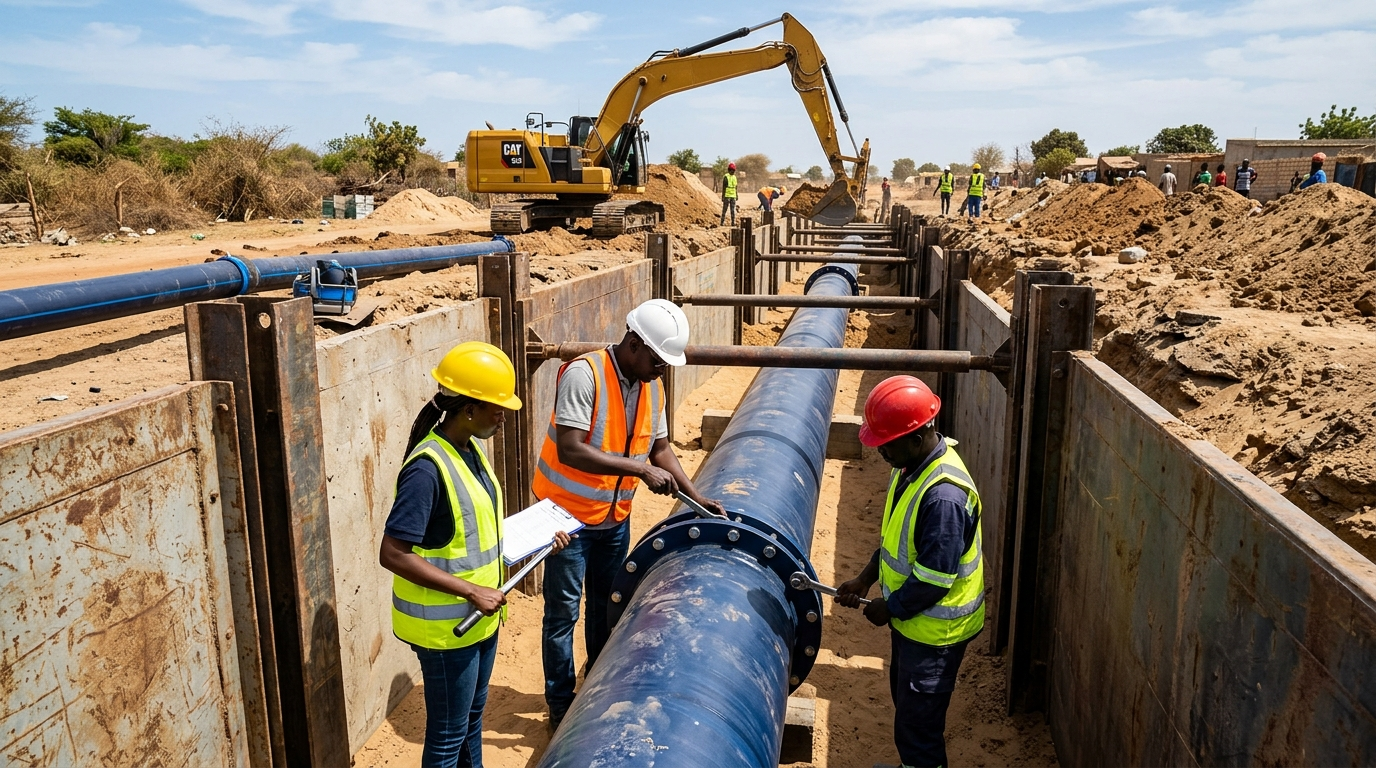
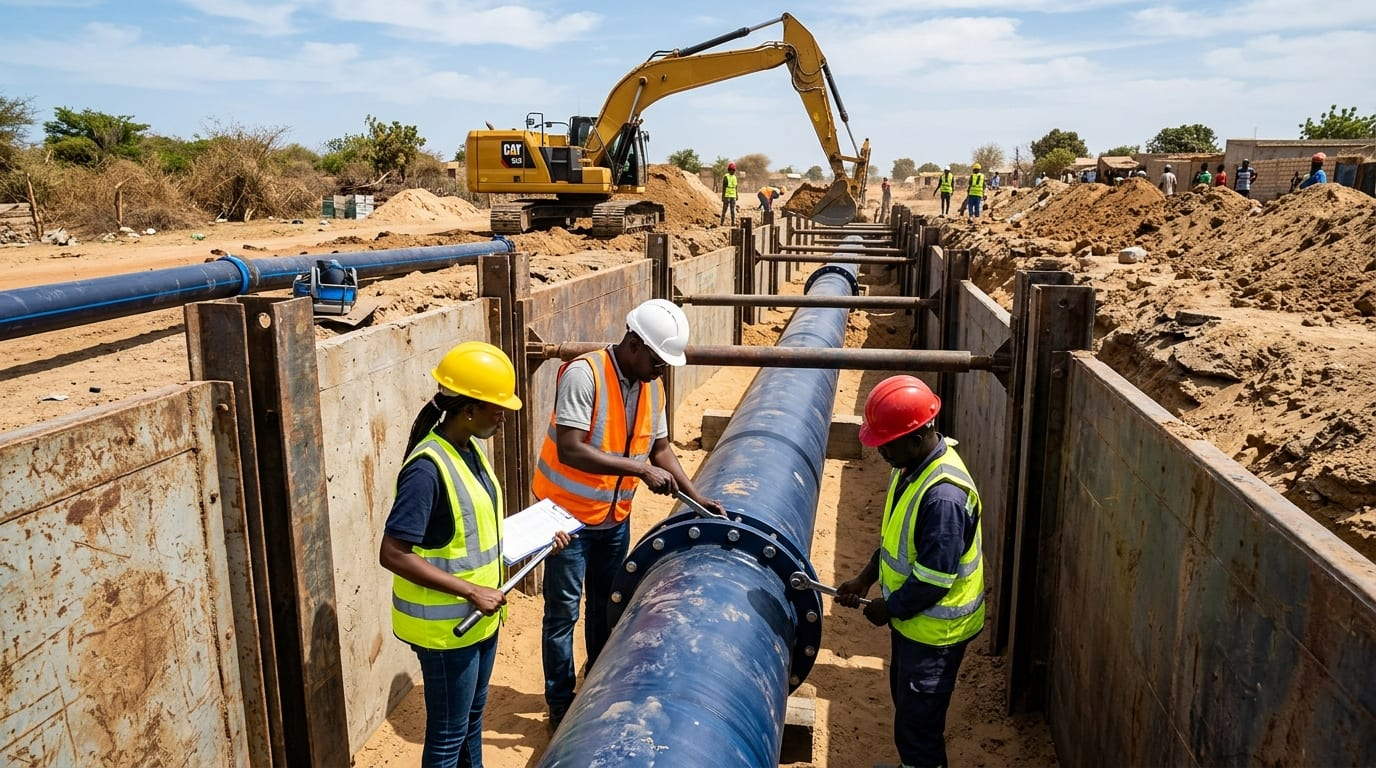
perf(images): compression progressive des images chantiers (-79% poids), support AVIF et lazy loading strict du hero

diff --git a/components/accueil/Diaporama.tsx b/components/accueil/Diaporama.tsx
@@ -30,7 +30,7 @@ export function Diaporama({ diapos }: { diapos: Diapo[] }) {
   const [reduit, setReduit] = useState(false);
   const [suspendu, setSuspendu] = useState(false);
   const [horsEcran, setHorsEcran] = useState(false);
-  const [chargees, setChargees] = useState<Set<number>>(() => new Set([0, 1]));
+  const [chargees, setChargees] = useState<Set<number>>(() => new Set([0]));
   const cadre = useRef<HTMLDivElement>(null);
 
   const enLecture = lecture ?? !reduit;
@@ -58,18 +58,17 @@ export function Diaporama({ diapos }: { diapos: Diapo[] }) {
     return () => window.clearTimeout(minuteur);
   }, [index, enPause, aller]);
 
-  // Précharge toutes les photos du hero dès que la page est prête pour un passage fluide sans attente
+  // Précharge uniquement la photo courante et la photo suivante (préserve la bande passante mobile)
   useEffect(() => {
-    const prechargerToutes = () => {
-      setChargees(new Set(diapos.map((_, i) => i)));
-    };
-    if (typeof window.requestIdleCallback === "function") {
-      const id = window.requestIdleCallback(prechargerToutes, { timeout: 1500 });
-      return () => window.cancelIdleCallback(id);
-    }
-    const t = setTimeout(prechargerToutes, 800);
-    return () => clearTimeout(t);
-  }, [diapos]);
+    setChargees((prev) => {
+      const suivante = (index + 1) % total;
+      if (prev.has(index) && prev.has(suivante)) return prev;
+      const maj = new Set(prev);
+      maj.add(index);
+      maj.add(suivante);
+      return maj;
+    });
+  }, [index, total]);
 
   useEffect(() => {
     // display: contents n'a pas de boîte : on observe la section du hero
@@ -110,8 +109,8 @@ export function Diaporama({ diapos }: { diapos: Diapo[] }) {
                   fill
                   priority={i === 0}
                   fetchPriority={i === 0 ? "high" : "low"}
-                  sizes="100vw"
-                  quality={75}
+                  sizes="(max-width: 640px) 100vw, (max-width: 1024px) 100vw, 1920px"
+                  quality={70}
                   placeholder="blur"
                   className="object-cover"
                   style={{ objectPosition: p.focale }}

diff --git a/next.config.ts b/next.config.ts
@@ -32,7 +32,7 @@ const securite = [
 // Fichiers statiques non versionnés (logo, motifs, photos) : 30 jours, puis
 // revalidation en arrière-plan. Pas « immutable » : le logo vectoriel et les
 // photos HD remplaceront ces fichiers sous le même nom.
-const cacheStatique = [{ key: "Cache-Control", value: "public, max-age=2592000, stale-while-revalidate=31536000" }];
+const cacheStatique = [{ key: "Cache-Control", value: "public, max-age=3600, stale-while-revalidate=86400" }];
 
 const nextConfig: NextConfig = {
   poweredByHeader: false,
@@ -53,14 +53,13 @@ const nextConfig: NextConfig = {
   cacheComponents: true,
   partialPrefetching: true,
   images: {
-    formats: ["image/webp"],
-    // 50 à 75 : photos d'arrière-plan, contenu et hero
-    qualities: [50, 60, 75, 80],
-    // Pas de variante 3840 : les photos sources font au plus 2500 px.
-    deviceSizes: [640, 750, 828, 1080, 1200, 1600, 1920, 2560],
+    formats: ["image/avif", "image/webp"],
+    // Qualités optimisées pour un compromis parfait netteté/vitesse de chargement
+    qualities: [50, 60, 70, 75, 80],
+    deviceSizes: [360, 480, 640, 750, 828, 1080, 1200, 1600, 1920],
     // Photos ajoutées depuis l'espace admin (stockage Supabase « medias »)
     remotePatterns: [{ protocol: "https", hostname: "*.supabase.co", pathname: "/storage/v1/object/public/medias/**" }],
-    minimumCacheTTL: 2592000,
+    minimumCacheTTL: 86400,
   },
   experimental: {
     optimizePackageImports: ["@phosphor-icons/react"],
